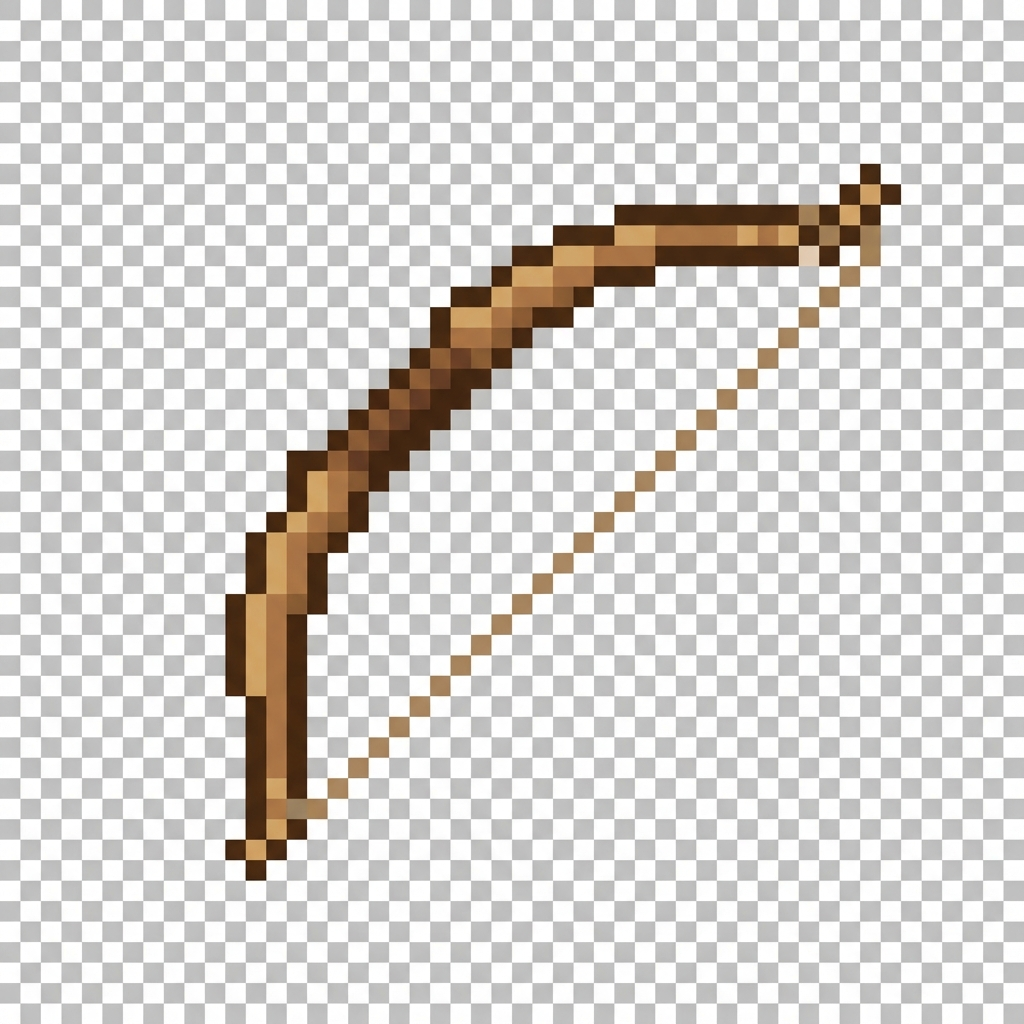
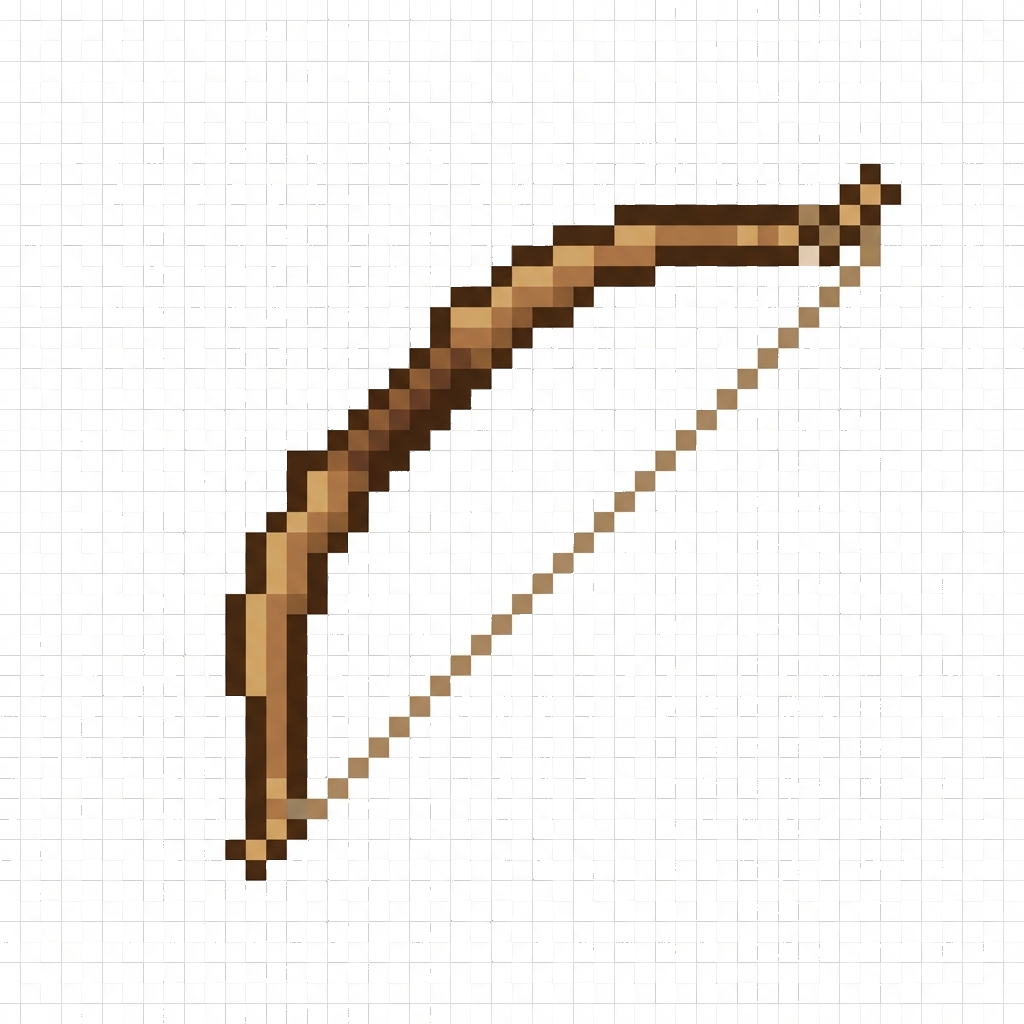
fix(assets): rewire 9 weapon textures and restore RGBA transparency to fallback bow

diff --git a/tools/audit_weapons.py b/tools/audit_weapons.py
@@ -1,0 +1,143 @@
+import json
+import os
+import re
+from PIL import Image
+
+def norm(s):
+    return re.sub(r'[^a-z0-9]', '', str(s).lower())
+
+def main():
+    json_path = 'assets/data/weapons.json'
+    with open(json_path, 'r', encoding='utf-8') as f:
+        weapons = json.load(f)
+
+    weapon_dir = 'assets/images/weapons'
+    disk_images = [f for f in os.listdir(weapon_dir) if f.endswith('.png')]
+    disk_norm = {norm(os.path.splitext(f)[0]): f for f in disk_images}
+
+    print(f"Total entries in weapons.json: {len(weapons)}")
+    print(f"Total weapon images in assets/images/weapons: {len(disk_images)}")
+
+    # Check alpha on all images
+    alpha_modes = {}
+    no_alpha = []
+    for f in disk_images:
+        p = os.path.join(weapon_dir, f)
+        with Image.open(p) as img:
+            alpha_modes[img.mode] = alpha_modes.get(img.mode, 0) + 1
+            if 'A' not in img.mode:
+                no_alpha.append(f)
+
+    print(f"Image modes in assets/images/weapons: {alpha_modes}")
+    if no_alpha:
+        print(f"Images lacking alpha channel in weapons dir: {no_alpha}")
+    else:
+        print("All images in assets/images/weapons have an alpha channel.")
+
+    # Check items/bow.png
+    item_bow_path = 'assets/images/items/bow.png'
+    if os.path.exists(item_bow_path):
+        with Image.open(item_bow_path) as img:
+            print(f"assets/images/items/bow.png mode: {img.mode}, size: {img.size}")
+
+    # Categorize weapons.json
+    bow_item_fallback = [] # images/items/bow.png
+    bow_weapon_fallback = [] # images/weapons/bow.png (for non-bow)
+    other_fallback = []
+    has_valid_texture = []
+
+    for k, v in weapons.items():
+        tex = v.get('texturePath', '')
+        if tex == 'images/items/bow.png':
+            bow_item_fallback.append(k)
+        elif tex == 'images/weapons/bow.png':
+            if k == 'BOW':
+                has_valid_texture.append(k)
+            else:
+                bow_weapon_fallback.append(k)
+        elif not tex:
+            other_fallback.append(k)
+        else:
+            full = os.path.join('assets', tex)
+            if os.path.exists(full):
+                has_valid_texture.append(k)
+            else:
+                other_fallback.append(k)
+
+    print("\n--- WEAPON TEXTURE STATUS ---")
+    print(f"Properly mapped with existing textures: {len(has_valid_texture)}")
+    print(f"Pointing to images/items/bow.png (RGB, NO ALPHA): {len(bow_item_fallback)}")
+    print(f"Pointing to images/weapons/bow.png (Generic bow placeholder): {len(bow_weapon_fallback)}")
+    print(f"Other missing / empty texturePath: {len(other_fallback)}")
+
+    # Unreferenced disk images
+    referenced_filenames = set()
+    for k, v in weapons.items():
+        tex = v.get('texturePath', '')
+        if tex:
+            referenced_filenames.add(os.path.basename(tex).lower())
+
+    unref_disk = [f for f in disk_images if f.lower() not in referenced_filenames]
+    print(f"\nUnreferenced images on disk in assets/images/weapons: {len(unref_disk)}")
+
+    # Can we match unreferenced images to fallback items?
+    fallback_keys = bow_item_fallback + bow_weapon_fallback
+    matched_to_disk = []
+    unmatched_keys = []
+
+    for k in fallback_keys:
+        data = weapons[k]
+        fname = data.get('friendlyName', '')
+        nk = norm(k)
+        nf = norm(fname)
+
+        match = None
+        # Exact norm match
+        if nk in disk_norm:
+            match = disk_norm[nk]
+        elif nf in disk_norm:
+            match = disk_norm[nf]
+        else:
+            # Try specific heuristics
+            # e.g., ARROW_FLIGHT -> flightarrow.png
+            # DOUBLE_CROSSBOW -> double_crossbow.png / CROSSBOW_DOUBLED -> crossbow_doubled.png
+            for unref in unref_disk:
+                nu = norm(os.path.splitext(unref)[0])
+                if nu == nk or nu == nf:
+                    match = unref
+                    break
+                # subwords
+                if nk.startswith(nu) or nu.startswith(nk):
+                    pass
+
+        if match:
+            matched_to_disk.append((k, fname, match))
+        else:
+            unmatched_keys.append((k, fname))
+
+    print(f"\nFallback weapons that can immediately match an existing disk image: {len(matched_to_disk)}")
+    for k, fname, img in matched_to_disk:
+        print(f"  {k} ('{fname}') -> images/weapons/{img}")
+
+    print(f"\nFallback weapons that have NO matching image on disk: {len(unmatched_keys)}")
+    
+    # Let's inspect unreferenced images remaining
+    matched_img_set = {m[2].lower() for m in matched_to_disk}
+    remaining_unref = [f for f in unref_disk if f.lower() not in matched_img_set]
+    print(f"Remaining unreferenced disk images after matches: {len(remaining_unref)}")
+    for f in sorted(remaining_unref):
+        print(f"  {f}")
+
+    # Breakdown by weapon class/type of truly missing items
+    print("\n--- BREAKDOWN OF MISSING WEAPON ASSETS ---")
+    categories = {}
+    for k, fname in unmatched_keys:
+        # derive category from key prefix
+        prefix = k.split('_')[0]
+        categories[prefix] = categories.get(prefix, 0) + 1
+
+    for cat, count in sorted(categories.items(), key=lambda x: x[1], reverse=True):
+        print(f"  {cat}: {count}")
+
+if __name__ == '__main__':
+    main()

diff --git a/tools/apply_weapon_hotfix.py b/tools/apply_weapon_hotfix.py
@@ -1,0 +1,64 @@
+import json
+import os
+from PIL import Image
+
+def hotfix():
+    # 1. Update weapons.json
+    json_path = 'assets/data/weapons.json'
+    with open(json_path, 'r', encoding='utf-8') as f:
+        data = json.load(f)
+
+    # 9 ready weapons
+    ready_mappings = {
+        "SWORD_FLAMBERGE": "images/weapons/sword_flamberge.png",
+        "SWORD_GIANT_KIN_TWO_HANDED": "images/weapons/sword_giant_kin_two_handed.png",
+        "SWORD_GREAT_SCIMITAR": "images/weapons/sword_great_scimitar.png",
+        "SWORD_HOOK": "images/weapons/sword_hook.png",
+        "SWORD_KATANA_ONE_HANDED": "images/weapons/sword_katana_one_handed.png",
+        "SWORD_KATANA_TWO_HANDED": "images/weapons/sword_katana_two_handed.png",
+        "SWORD_KHANDAR_ONE_HANDED": "images/weapons/sword_khandar_one_handed.png",
+        "SWORD_KHANDAR_TWO_HANDED": "images/weapons/sword_khandar_two_handed.png",
+        "ARROW_FLIGHT": "images/weapons/flightarrow.png"
+    }
+
+    rewired_count = 0
+    for k, p in ready_mappings.items():
+        if k in data:
+            data[k]['texturePath'] = p
+            rewired_count += 1
+            print(f"Rewired {k} -> {p}")
+
+    # Fallback items pointing to images/items/bow.png -> point to images/weapons/bow.png
+    redirected_count = 0
+    for k, v in data.items():
+        if v.get('texturePath') == 'images/items/bow.png':
+            v['texturePath'] = 'images/weapons/bow.png'
+            redirected_count += 1
+
+    print(f"Redirected {redirected_count} fallback weapons from items/bow.png to weapons/bow.png (RGBA)")
+
+    with open(json_path, 'w', encoding='utf-8') as f:
+        json.dump(data, f, indent='\t')
+
+    # 2. Convert assets/images/items/bow.png to RGBA transparent
+    item_bow_path = 'assets/images/items/bow.png'
+    if os.path.exists(item_bow_path):
+        img = Image.open(item_bow_path).convert('RGBA')
+        # Background is grey around (191, 191, 189)
+        # Convert any pixels close to the background color to transparent
+        datas = img.getdata()
+        new_data = []
+        bg_sample = img.getpixel((5, 5))
+        for item in datas:
+            # Check Euclidean or manhattan distance to bg_sample
+            diff = abs(item[0] - bg_sample[0]) + abs(item[1] - bg_sample[1]) + abs(item[2] - bg_sample[2])
+            if diff < 35: # within grey threshold
+                new_data.append((0, 0, 0, 0))
+            else:
+                new_data.append(item)
+        img.putdata(new_data)
+        img.save(item_bow_path, 'PNG')
+        print(f"Patched {item_bow_path} to RGBA transparent.")
+
+if __name__ == '__main__':
+    hotfix()
